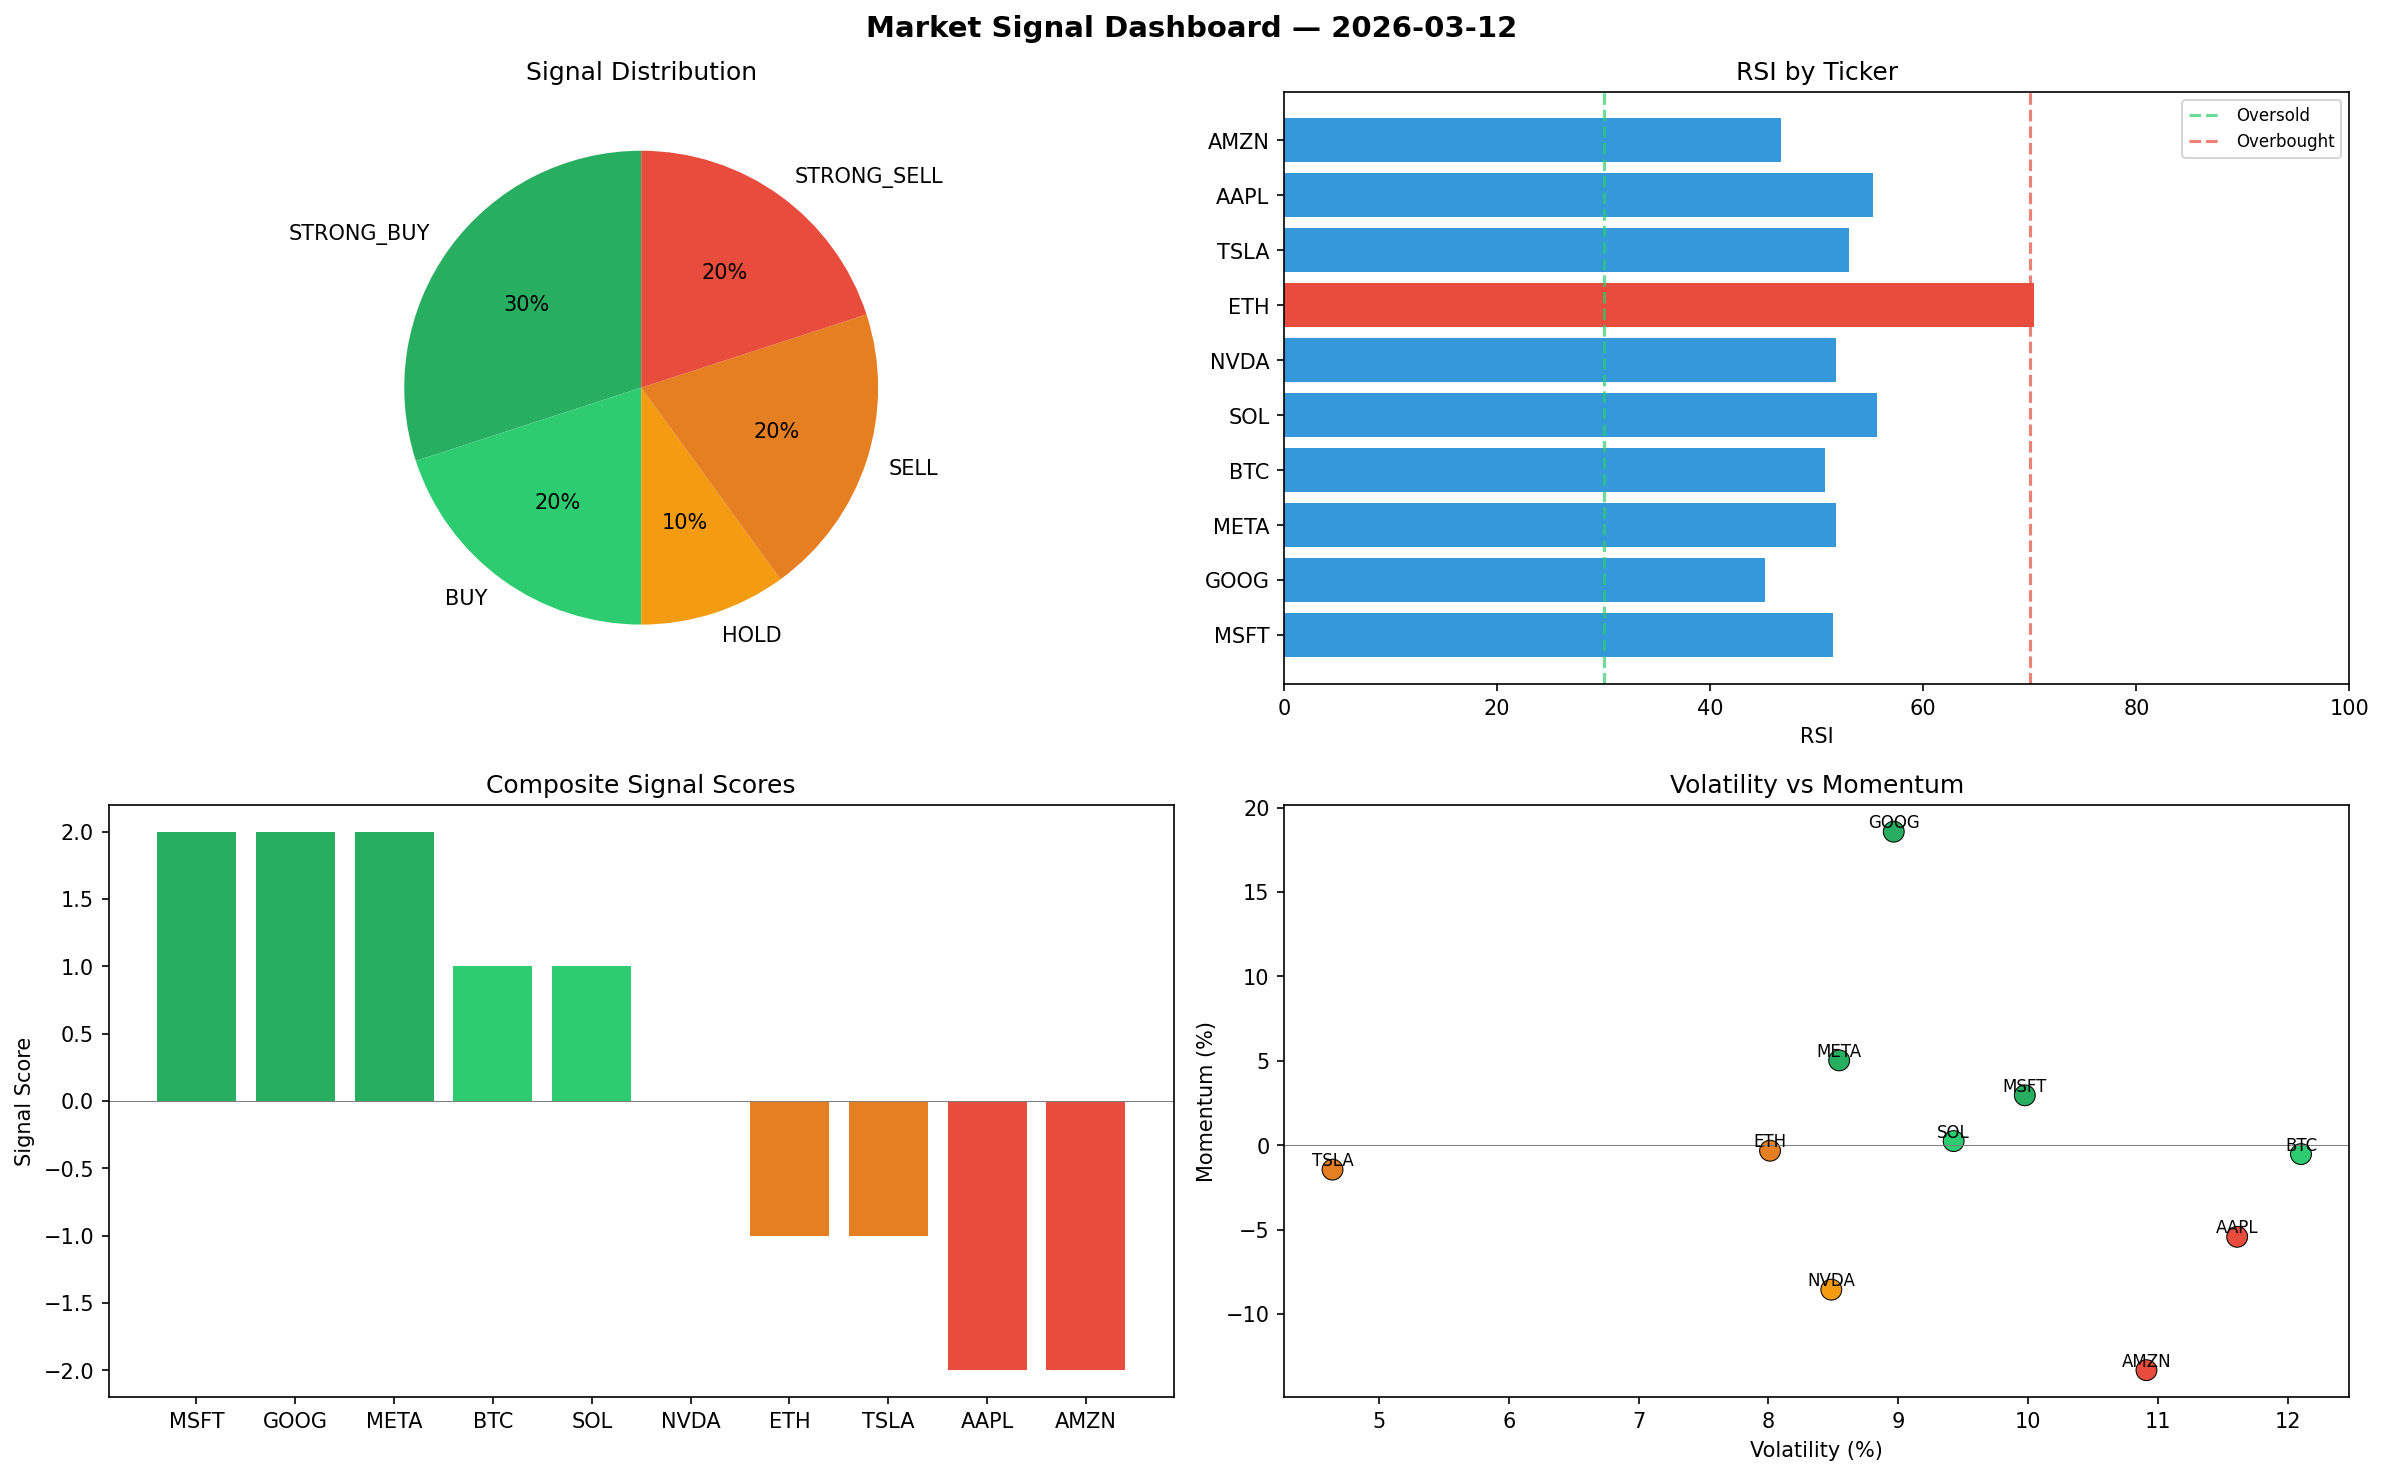
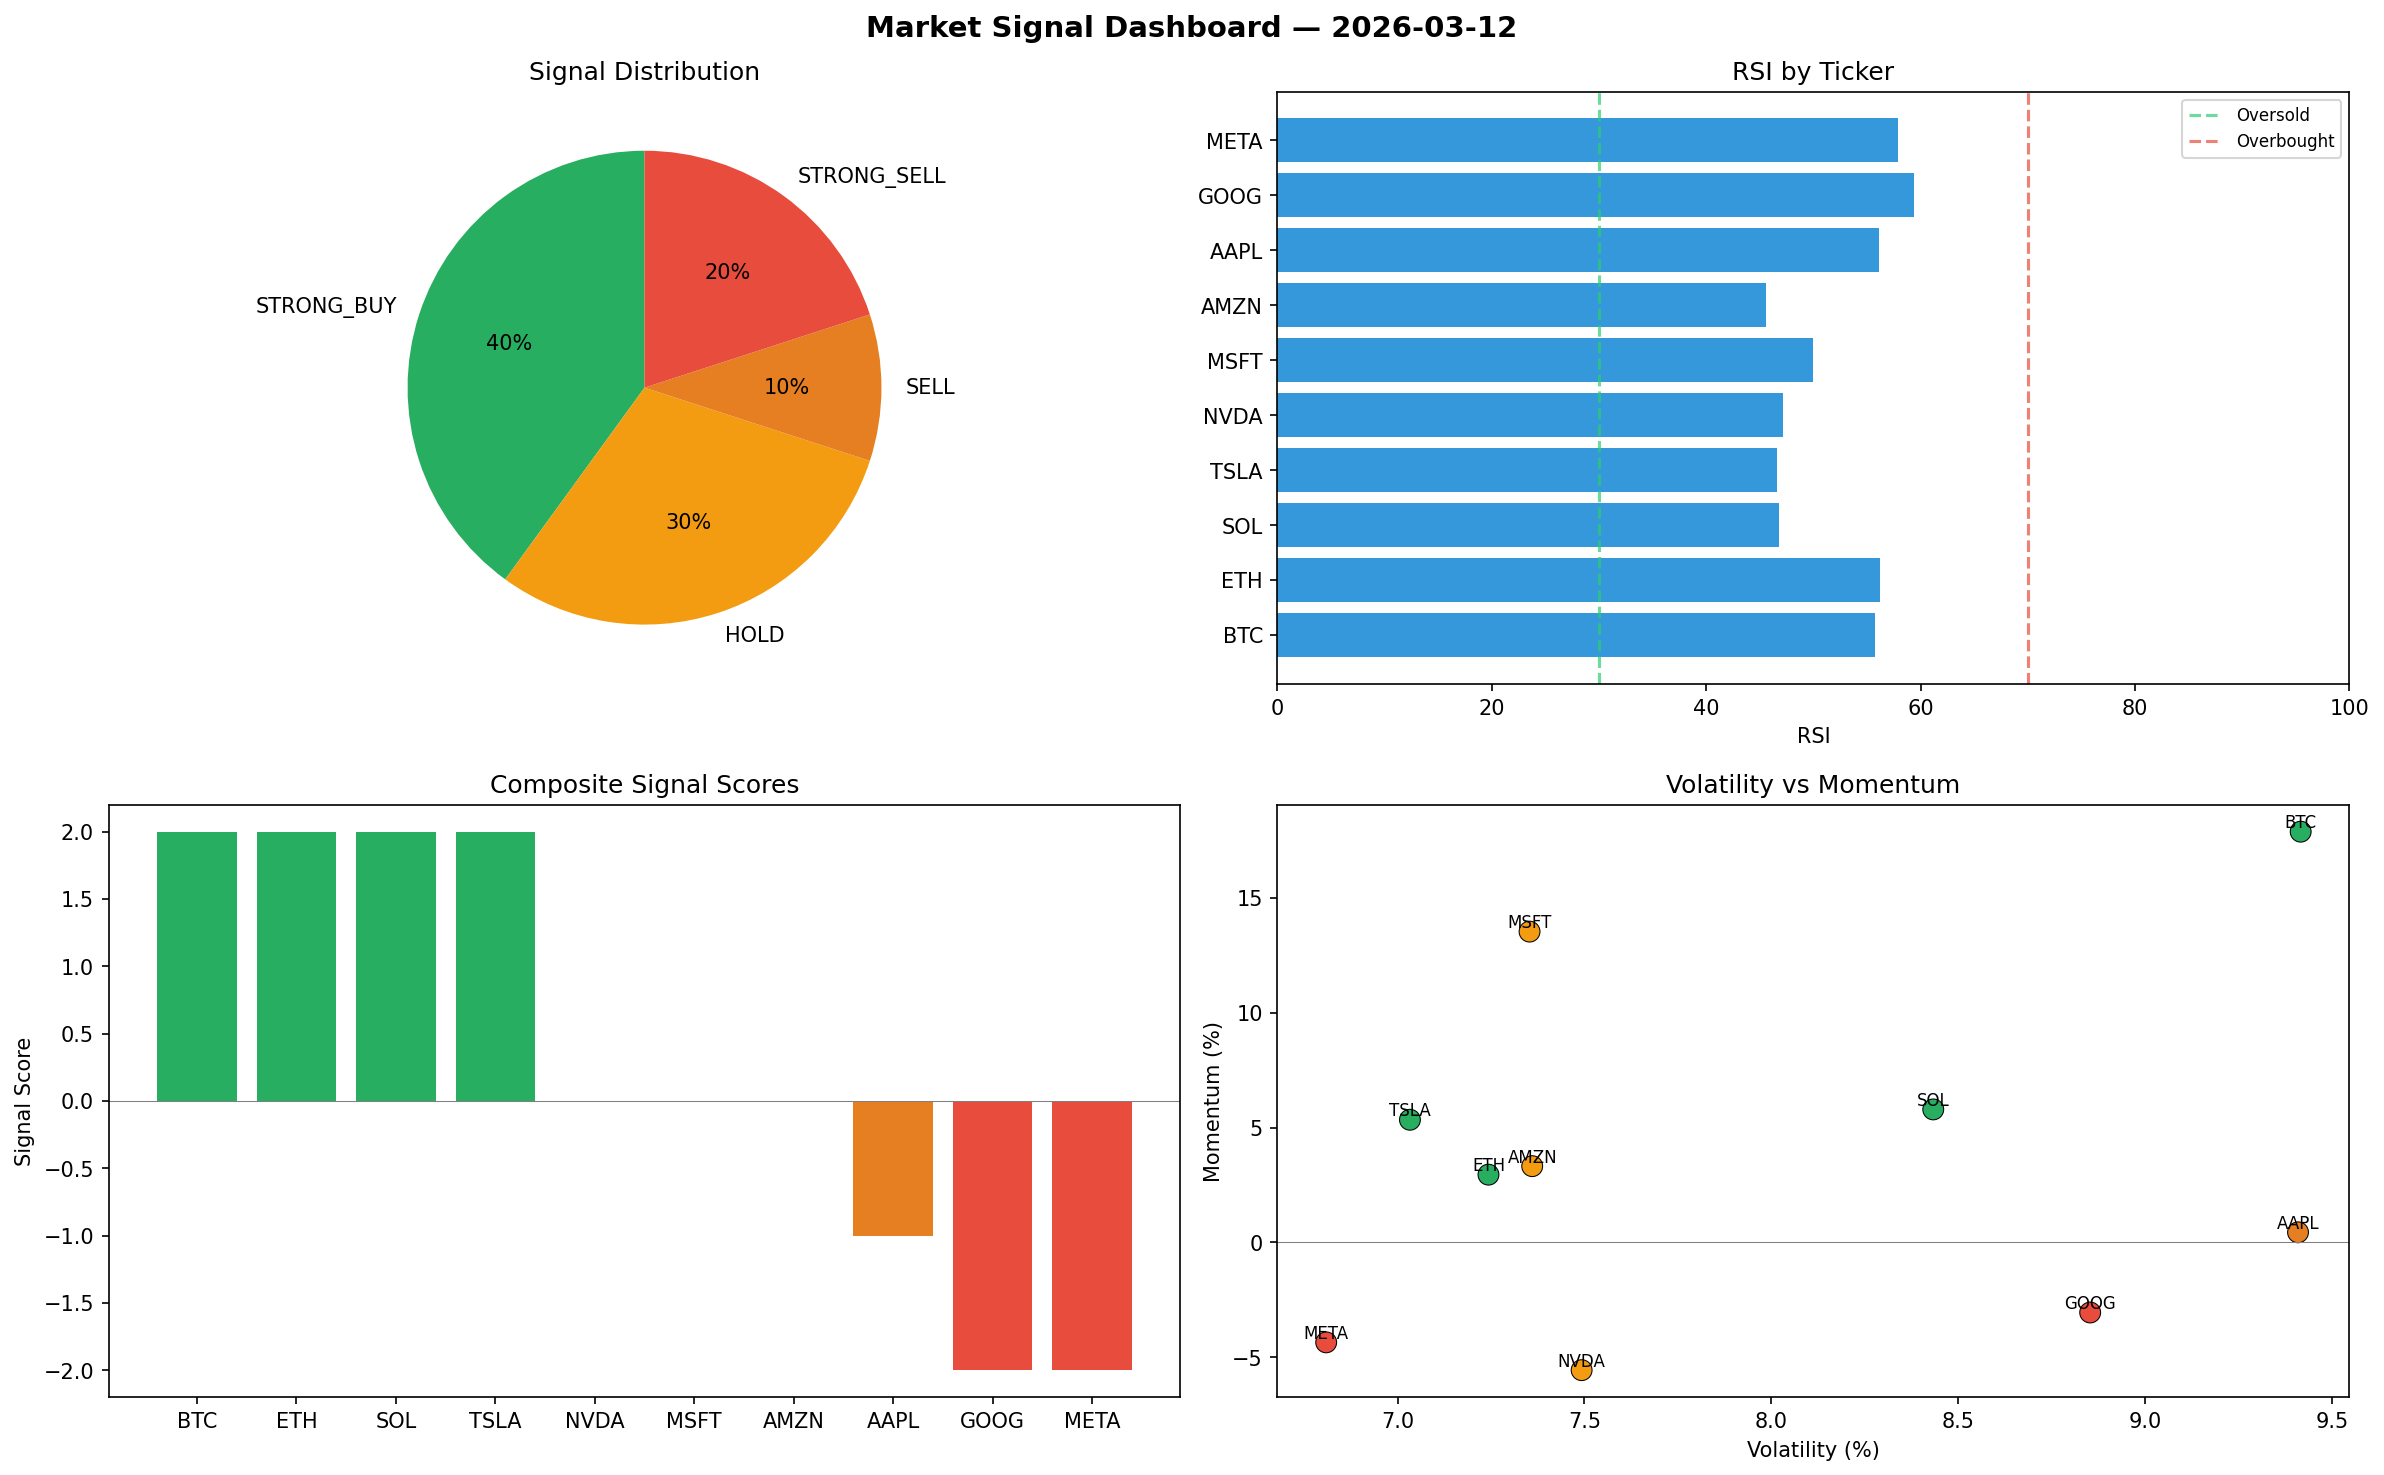
automated-bots: market signals 2026-03-12T09:07

diff --git a/logs/2026-03-12.md b/logs/2026-03-12.md
@@ -1,6 +1,6 @@
 # Market Signal Report — 2026-03-12
 
-**Run ID:** `bd7185a222` | **Buy:** 5 | **Sell:** 4 | **Hold:** 1
+**Run ID:** `f98fc8cd7f` | **Buy:** 4 | **Sell:** 3 | **Hold:** 3
 
 ![Dashboard](2026-03-12_dashboard.png)
 
@@ -8,28 +8,28 @@
 
 | Ticker | Price | Signal | Score | RSI | Momentum | Confidence |
 |--------|-------|--------|-------|-----|----------|------------|
-| MSFT | $4035.92 | **STRONG_BUY** | 2 | 51.54 | 0.0295 | 0.5 |
-| GOOG | $4835.91 | **STRONG_BUY** | 2 | 45.18 | 0.1857 | 0.5 |
-| META | $1362.47 | **STRONG_BUY** | 2 | 51.83 | 0.0502 | 0.5 |
-| BTC | $1145.94 | **BUY** | 1 | 50.74 | -0.0053 | 0.25 |
-| SOL | $2171.26 | **BUY** | 1 | 55.63 | 0.0024 | 0.25 |
-| NVDA | $4854.61 | **HOLD** | 0 | 51.77 | -0.0856 | 0.0 |
-| ETH | $836.88 | **SELL** | -1 | 70.36 | -0.0033 | 0.25 |
-| TSLA | $1192.12 | **SELL** | -1 | 53.03 | -0.0145 | 0.25 |
-| AAPL | $4431.17 | **STRONG_SELL** | -2 | 55.25 | -0.0543 | 0.5 |
-| AMZN | $3154.99 | **STRONG_SELL** | -2 | 46.63 | -0.1333 | 0.5 |
+| BTC | $461.93 | **STRONG_BUY** | 2 | 55.76 | 0.1788 | 0.5 |
+| ETH | $2021.55 | **STRONG_BUY** | 2 | 56.18 | 0.0295 | 0.5 |
+| SOL | $2900.16 | **STRONG_BUY** | 2 | 46.75 | 0.0579 | 0.5 |
+| TSLA | $2176.05 | **STRONG_BUY** | 2 | 46.56 | 0.0534 | 0.5 |
+| NVDA | $51.12 | **HOLD** | 0 | 47.14 | -0.0556 | 0.0 |
+| MSFT | $2532.01 | **HOLD** | 0 | 49.99 | 0.1353 | 0.0 |
+| AMZN | $4152.22 | **HOLD** | 0 | 45.53 | 0.0332 | 0.0 |
+| AAPL | $2991.88 | **SELL** | -1 | 56.14 | 0.0044 | 0.25 |
+| GOOG | $925.4 | **STRONG_SELL** | -2 | 59.39 | -0.0305 | 0.5 |
+| META | $1100.38 | **STRONG_SELL** | -2 | 57.88 | -0.0435 | 0.5 |
 
 ## Delta vs Yesterday
 
 | Ticker | Today | Yesterday | Price Change | Signal Changed |
 |--------|-------|-----------|-------------|----------------|
-| MSFT | STRONG_BUY | STRONG_SELL | 📈 978.43% | ⚠ YES |
-| GOOG | STRONG_BUY | HOLD | 📈 9.09% | ⚠ YES |
-| META | STRONG_BUY | BUY | 📈 537.5% | ⚠ YES |
-| BTC | BUY | STRONG_SELL | 📈 18.54% | ⚠ YES |
-| SOL | BUY | HOLD | 📉 -7.87% | ⚠ YES |
-| NVDA | HOLD | STRONG_SELL | 📈 17.01% | ⚠ YES |
-| ETH | SELL | SELL | 📉 -57.48% | — |
-| TSLA | SELL | STRONG_SELL | 📈 74.47% | ⚠ YES |
-| AAPL | STRONG_SELL | HOLD | 📉 -1.76% | ⚠ YES |
-| AMZN | STRONG_SELL | STRONG_BUY | 📈 48.31% | ⚠ YES |
+| BTC | STRONG_BUY | STRONG_SELL | 📉 -52.22% | ⚠ YES |
+| ETH | STRONG_BUY | SELL | 📈 2.71% | ⚠ YES |
+| SOL | STRONG_BUY | HOLD | 📈 23.06% | ⚠ YES |
+| TSLA | STRONG_BUY | STRONG_SELL | 📈 218.47% | ⚠ YES |
+| NVDA | HOLD | STRONG_SELL | 📉 -98.77% | ⚠ YES |
+| MSFT | HOLD | STRONG_SELL | 📈 576.57% | ⚠ YES |
+| AMZN | HOLD | STRONG_BUY | 📈 95.18% | ⚠ YES |
+| AAPL | SELL | HOLD | 📉 -33.67% | ⚠ YES |
+| GOOG | STRONG_SELL | HOLD | 📉 -79.13% | ⚠ YES |
+| META | STRONG_SELL | BUY | 📈 414.87% | ⚠ YES |
